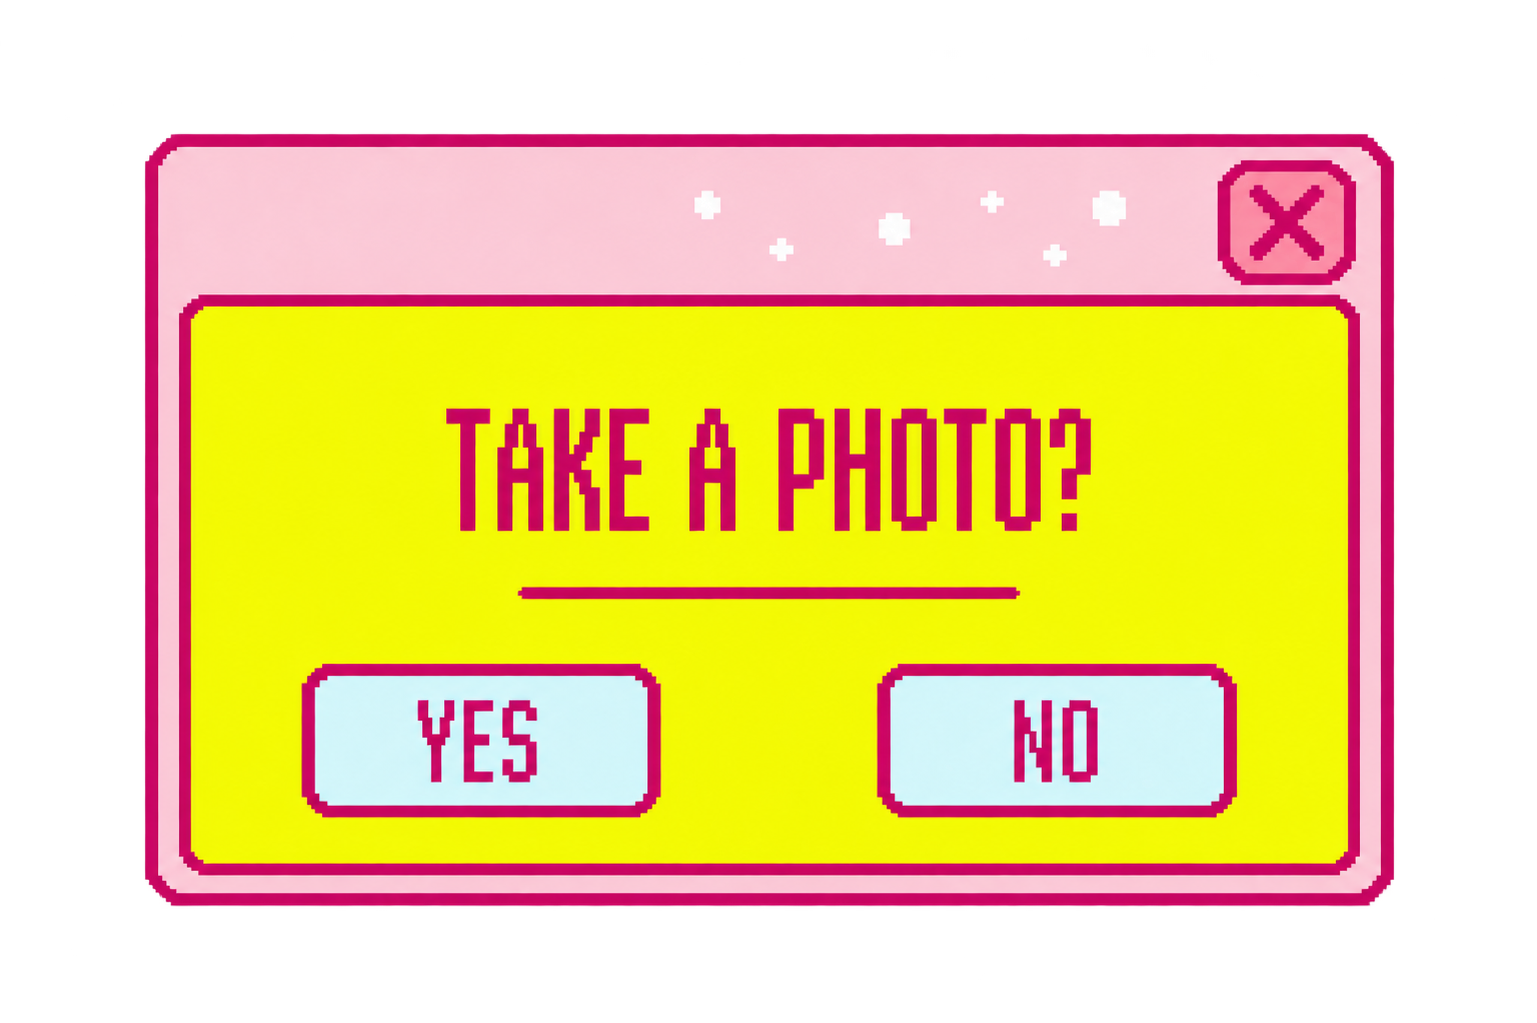
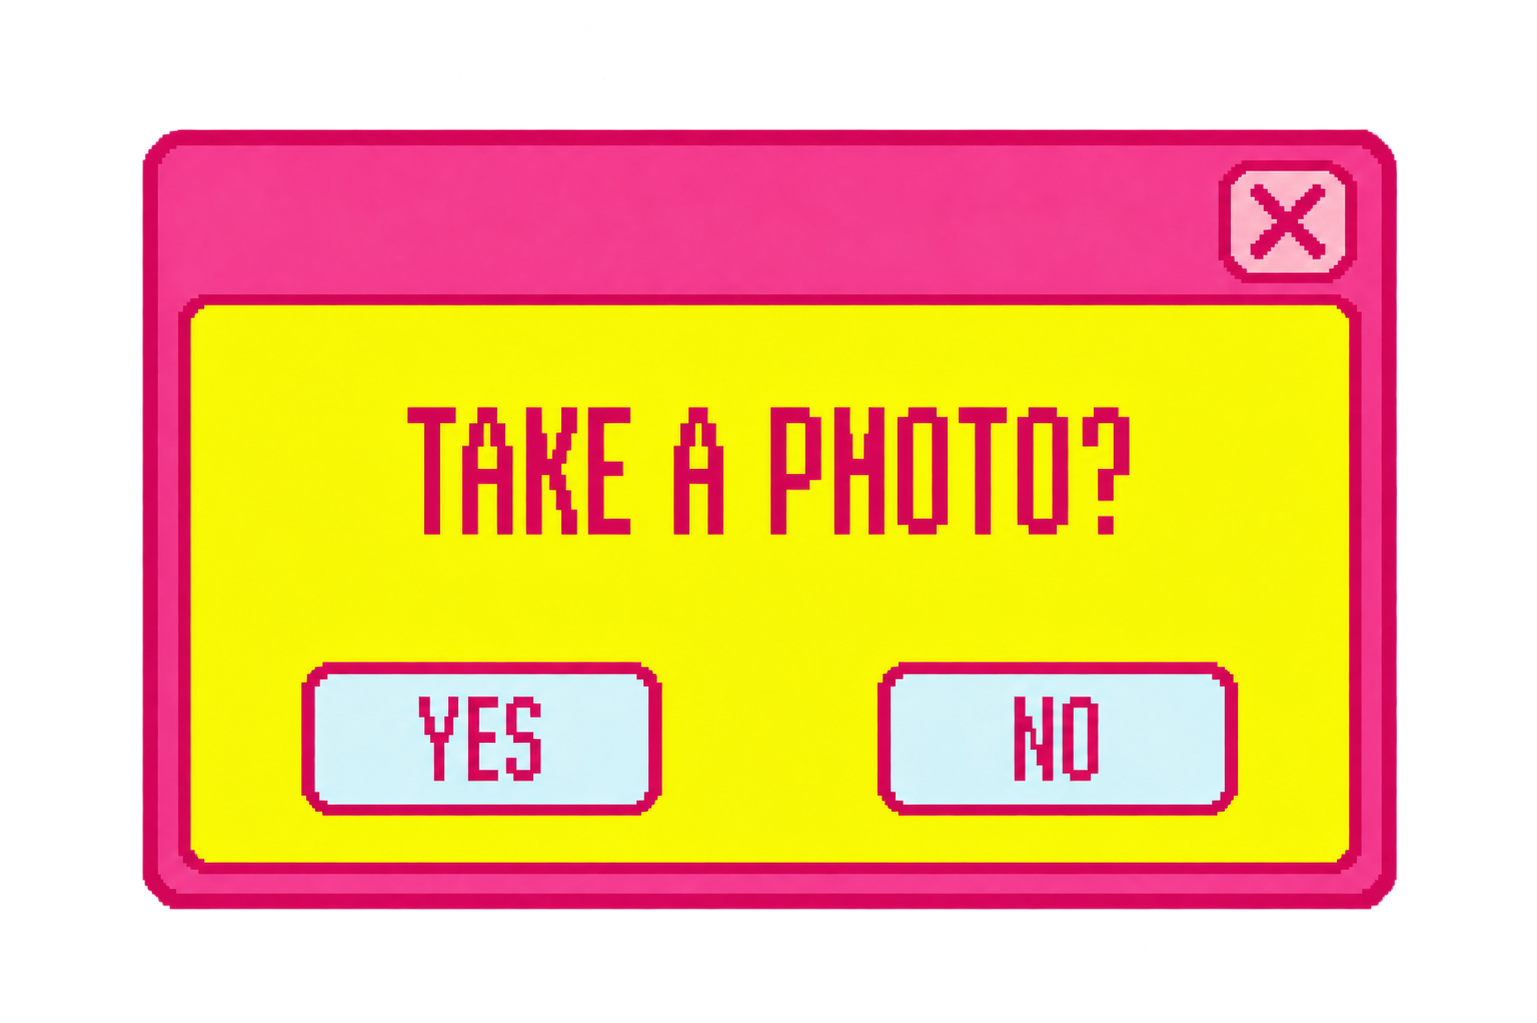
Match the camera prompt styling and size to the game prompt

diff --git a/src/style.css b/src/style.css
@@ -370,7 +370,7 @@ html[data-view='camera'] .play-screen::before { display: none; }
 
 .flying-life-heart { position: fixed; top: 0; left: 0; width: 64px; height: 64px; object-fit: contain; z-index: 30; pointer-events: none; }
 
-.product-prompt { width: min(620px, 96vw, 130dvh); max-width: none; max-height: none; padding: 0; border: 0; background: transparent; overflow: visible; }
+.product-prompt { width: min(372px, 58vw, 78dvh); max-width: none; max-height: none; padding: 0; border: 0; background: transparent; overflow: visible; }
 .product-prompt::backdrop { background: #170a1238; }
 .product-prompt-art { display: block; width: 100%; height: auto; }
 .product-prompt.is-game-prompt { width: min(372px, 58vw, 78dvh); }
